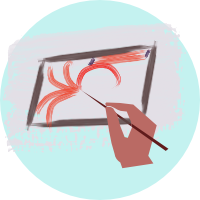
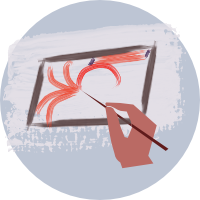
Refactor color index

diff --git a/public_html/ccs/estilos.css b/public_html/ccs/estilos.css
@@ -17,7 +17,7 @@
     grid-template-areas:
         "titulo titulo titulo titulo titulo"
         "texto texto texto texto  texto"
-        "texto texto texto texto texto" 
+        "texto texto texto texto texto"
         "pie pie pie pie pie";
     position: relative;
   }
@@ -34,7 +34,7 @@
     background-size: contain;
     background-image: url("../img/fondo6.jpg");
     height: 100%;
-   
+
 }
 
 .texto {
@@ -72,38 +72,9 @@ background-image: url("../img/fondo1.jpg")
     right: -40px;
 }
 
-#btn_Registro {
-    background: #434343; /* Change from #a1e0e7; to #434343 by: Jorge-Villalba**/
-    display: block;
-    margin: 5px auto;
-    border: 3px solid #707070; /* Change from #3c6382; to #707070 by: Jorge-Villalba**/
-    padding: 14px 40px;
-    outline: none;
-    color:#4e4d4d; /* Change from aqua; to #4e4d4d by: Jorge-Villalba**/
-    border-radius: 10px;
-    transition: 0.25s;
-    cursor: pointer;
-    margin-top: 500px;
-    position: relative;
-    left: 0px;
-}
 
-#link_Registro{
-    color: #fff;
-    text-decoration: none;
-    font-family: "Oswald";
-    font-size: 18px;
-    text-align: center;
-    margin : 5px auto;
-    display: inline-block;
-    width: 19.5%;
-    margin-right: 40%;
-    margin-top:-50%;
-    position: relative;
-    left: -10px;
-    top: 5px;
-    right: 10px;
-}
+
+
 
 
 .btn-registro {
@@ -139,7 +110,7 @@ background-image: url("../img/fondo1.jpg")
   outline: none;
   border: none;
   background-size: 200% auto;
-  background-image: linear-gradient(90deg, #56c8d8 0%, #e3f2fd 51%, #0097a7 100%);
+  background-image: linear-gradient(90deg, #78909c 0%, #e2f1f8 51%, #90a4ae 100%);
 }
 
 #btn_Registro:hover {

diff --git a/public_html/index.html b/public_html/index.html
@@ -42,7 +42,7 @@
             <div class="cardBox">
               <div class="card">
                 <div class="front">
-                  <img src="img/icono_consultoria.jpg">
+                  <img src="img/icono_consultoria.png">
                   <h3>Consultoria</h3>
                 </div>
                 <div class="back">
@@ -56,7 +56,7 @@
             <div class="cardBox">
               <div class="card">
                 <div class="front">
-                  <img src="img/icono_desarrollo_medida.jpg">
+                  <img src="img/icono_desarrollo_medida.png">
                   <h3>Desarrollo a la medida</h3>
                 </div>
                 <div class="back">
@@ -70,7 +70,7 @@
             <div class="cardBox">
               <div class="card">
                 <div class="front">
-                  <img src="img/icono_infraestrctura.jpg">
+                  <img src="img/icono_infraestrctura.png">
                   <h3>Infraestructura</h3>
                 </div>
                 <div class="back">
